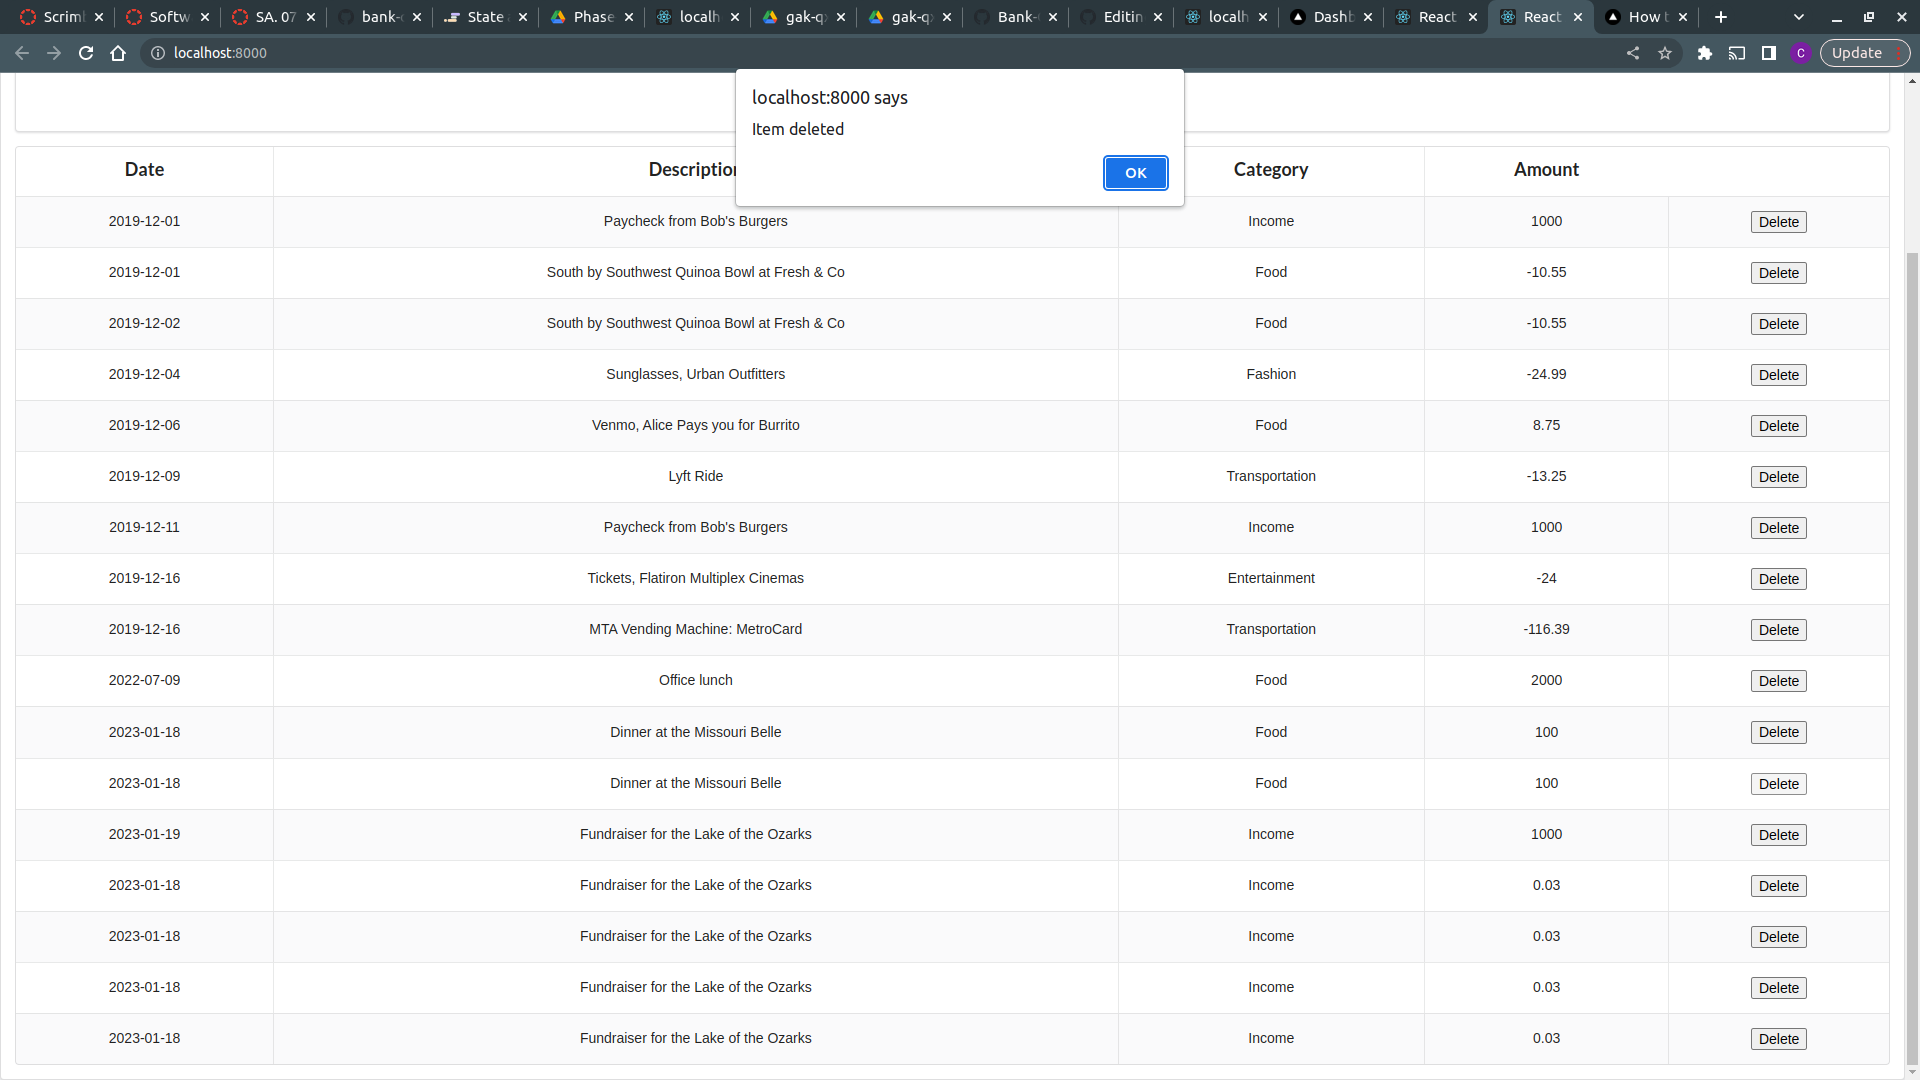
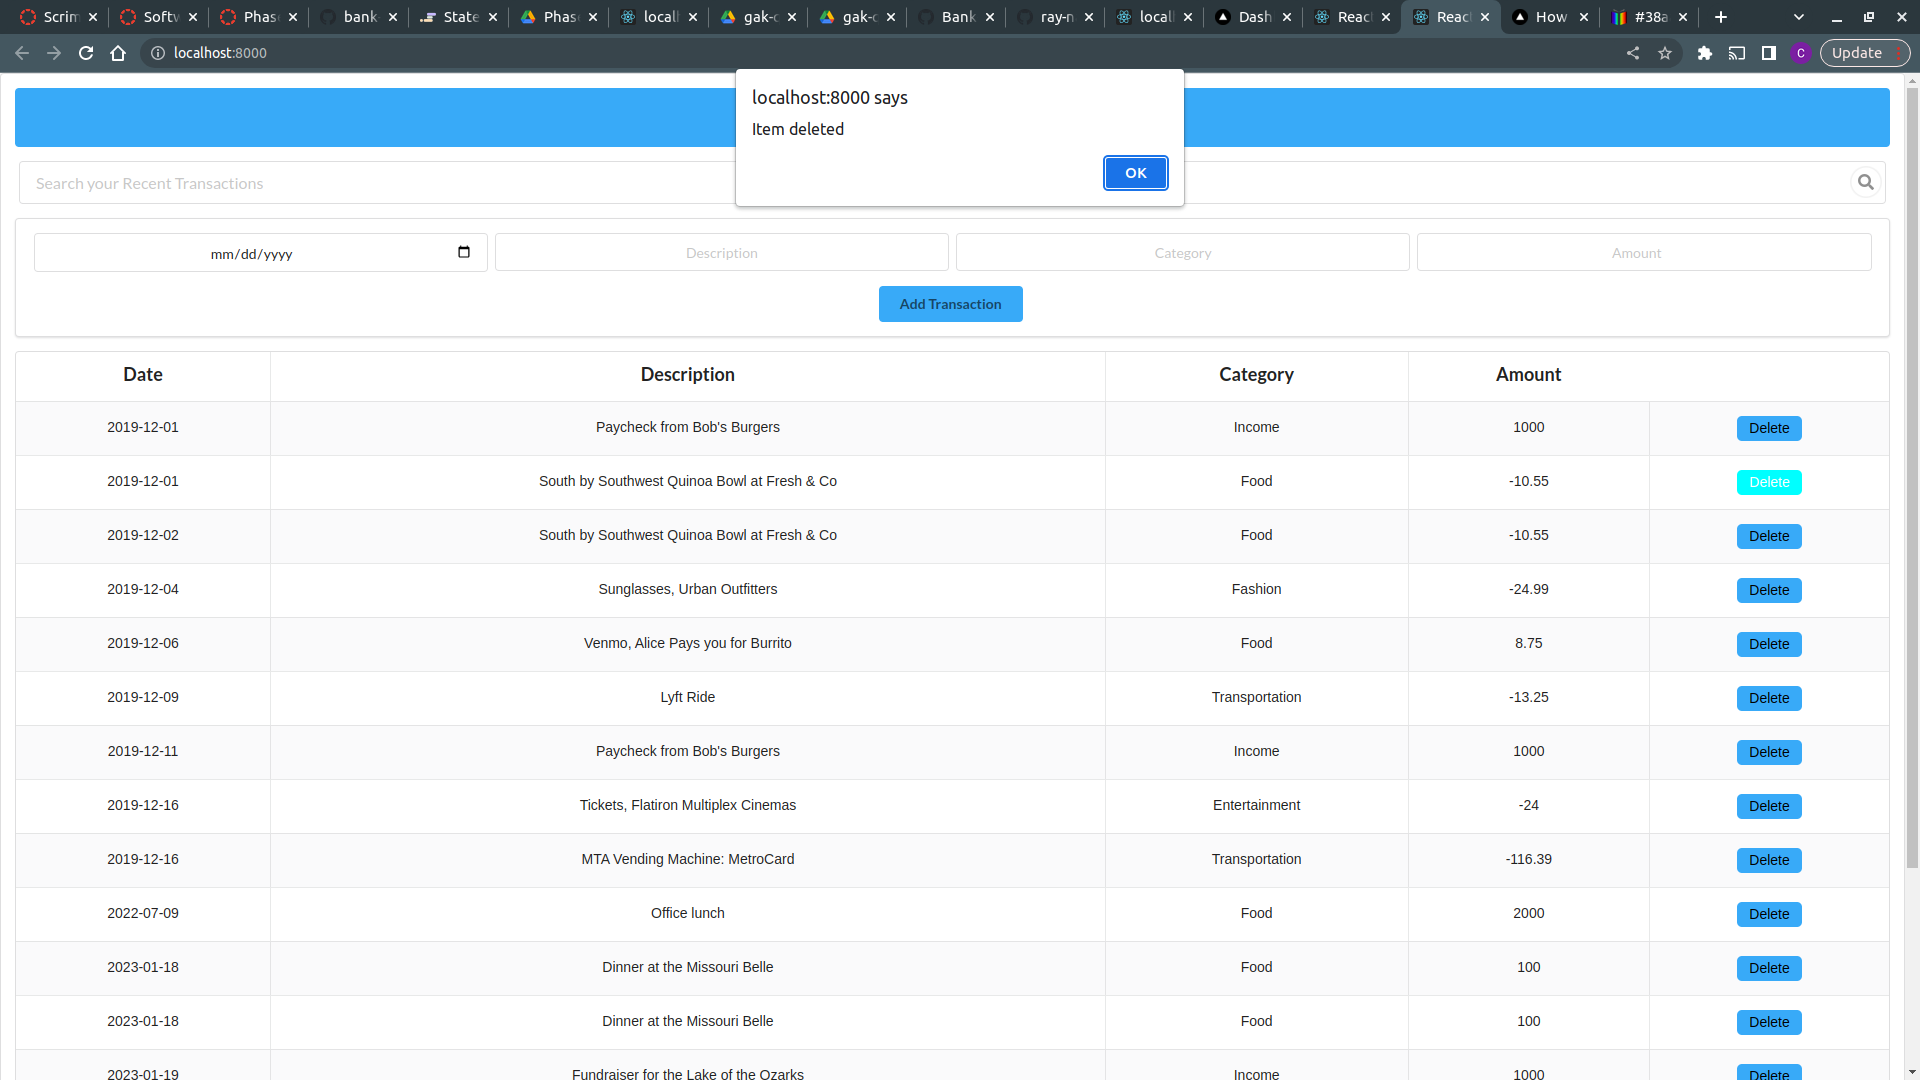
Add screenshots

diff --git a/src/components/Transaction.js b/src/components/Transaction.js
@@ -4,7 +4,7 @@ function Transaction({id, date,description,category, amount}) {
 
   // Function to persist deleting of data to the db.
   function handleDelete(event){
-    event.preventDefault()
+    // event.preventDefault()
     fetch (`http://localhost:8001/transactions/${id}`, {
       method: 'DELETE', 
       headers:{
@@ -21,7 +21,7 @@ function Transaction({id, date,description,category, amount}) {
       <td>{description}</td>
       <td>{category}</td>
       <td>{amount}</td>
-      <td>{<button onClick={handleDelete}>Delete</button>}</td>
+      <td>{<button id = "delete-btn" onClick={handleDelete}>Delete</button>}</td>
     </tr>
   );
 }

diff --git a/src/components/AddTransactionForm.js b/src/components/AddTransactionForm.js
@@ -43,7 +43,7 @@ function AddTransactionForm({newData}) {
           <input onChange={handleChange} type="text" name="category" placeholder="Category" />
           <input onChange={handleChange} type="number" name="amount" placeholder="Amount" step="0.01" />
         </div>
-        <button className="ui button" type="submit">
+        <button id = "add-ts" className="ui button" type="submit">
           Add Transaction
         </button>
       </form>

diff --git a/src/index.css b/src/index.css
@@ -25,3 +25,25 @@ body {
   padding: 20px;
   color: white;
 }
+
+#delete-btn {
+  height : 25px;
+  width: 65px;
+  background-color: #38aaf8;
+  border: none;
+  border-radius: 5px;
+}
+#delete-btn:hover{
+  background-color:aqua; 
+  color: white;
+}
+#add-ts{
+  background-color: #38aaf8;
+}
+#add-ts:hover{
+  background-color:aqua; 
+  color: white;
+}
+#title{
+  background-color: #38aaf8;
+}

diff --git a/src/components/App.js b/src/components/App.js
@@ -4,8 +4,8 @@ import AccountContainer from "./AccountContainer";
 function App() {
   return (
     <div className="ui raised segment">
-      <div className="ui segment violet inverted">
-        <h2>The Royal Bank of Flatiron</h2>
+      <div id ="title" className="ui segment inverted">
+        <h2 >The Royal Bank of Flatiron</h2>
       </div>
       <AccountContainer />
     </div>
